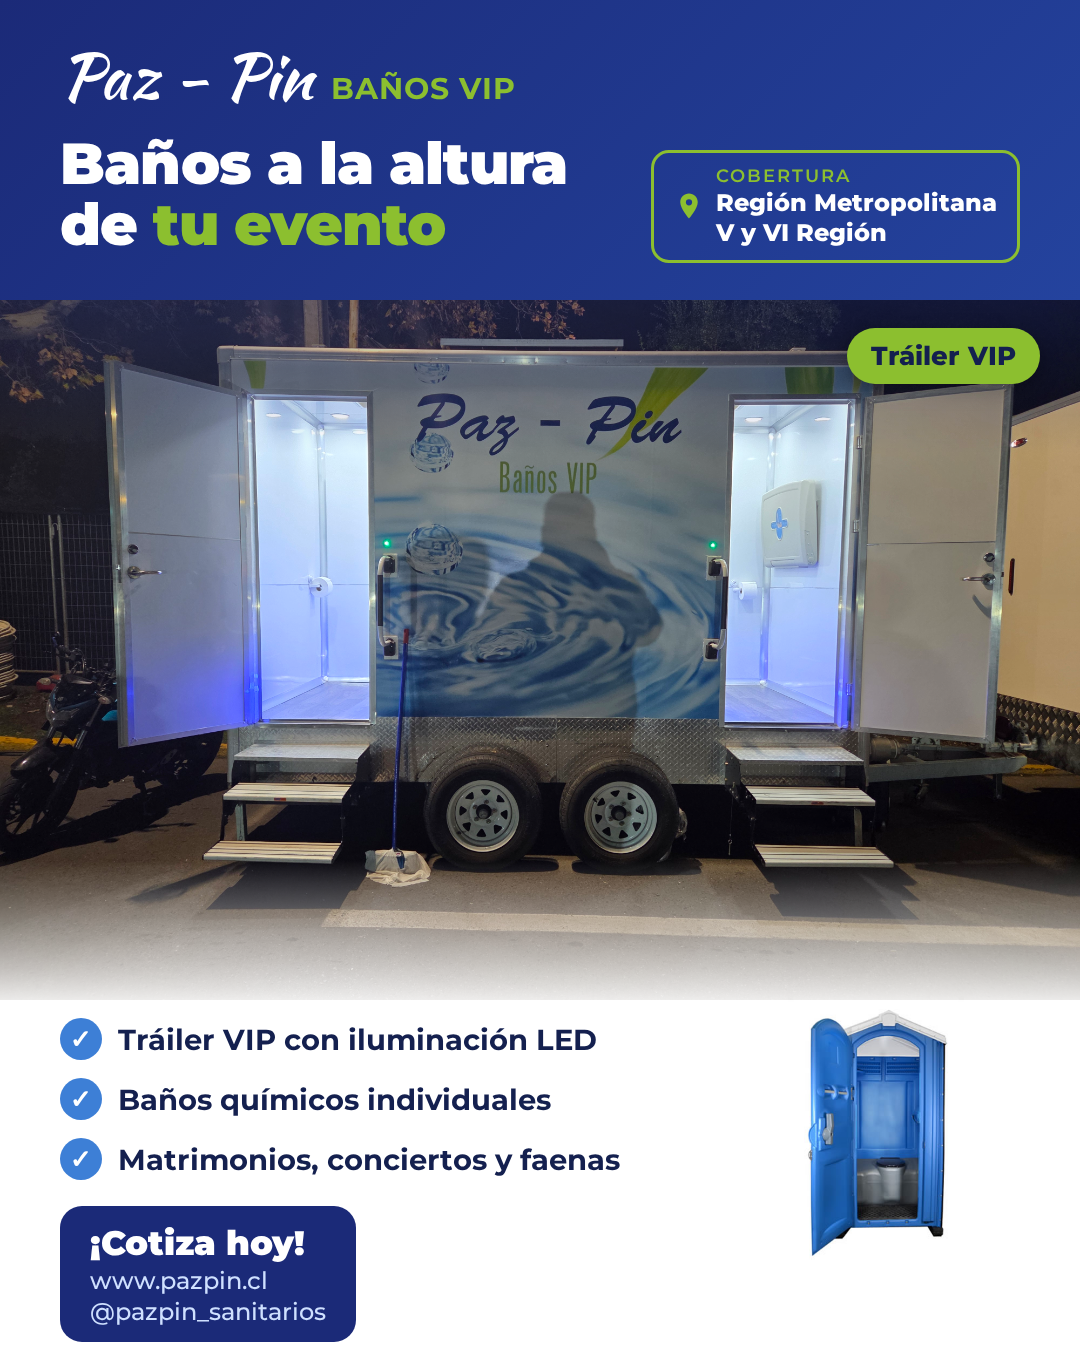
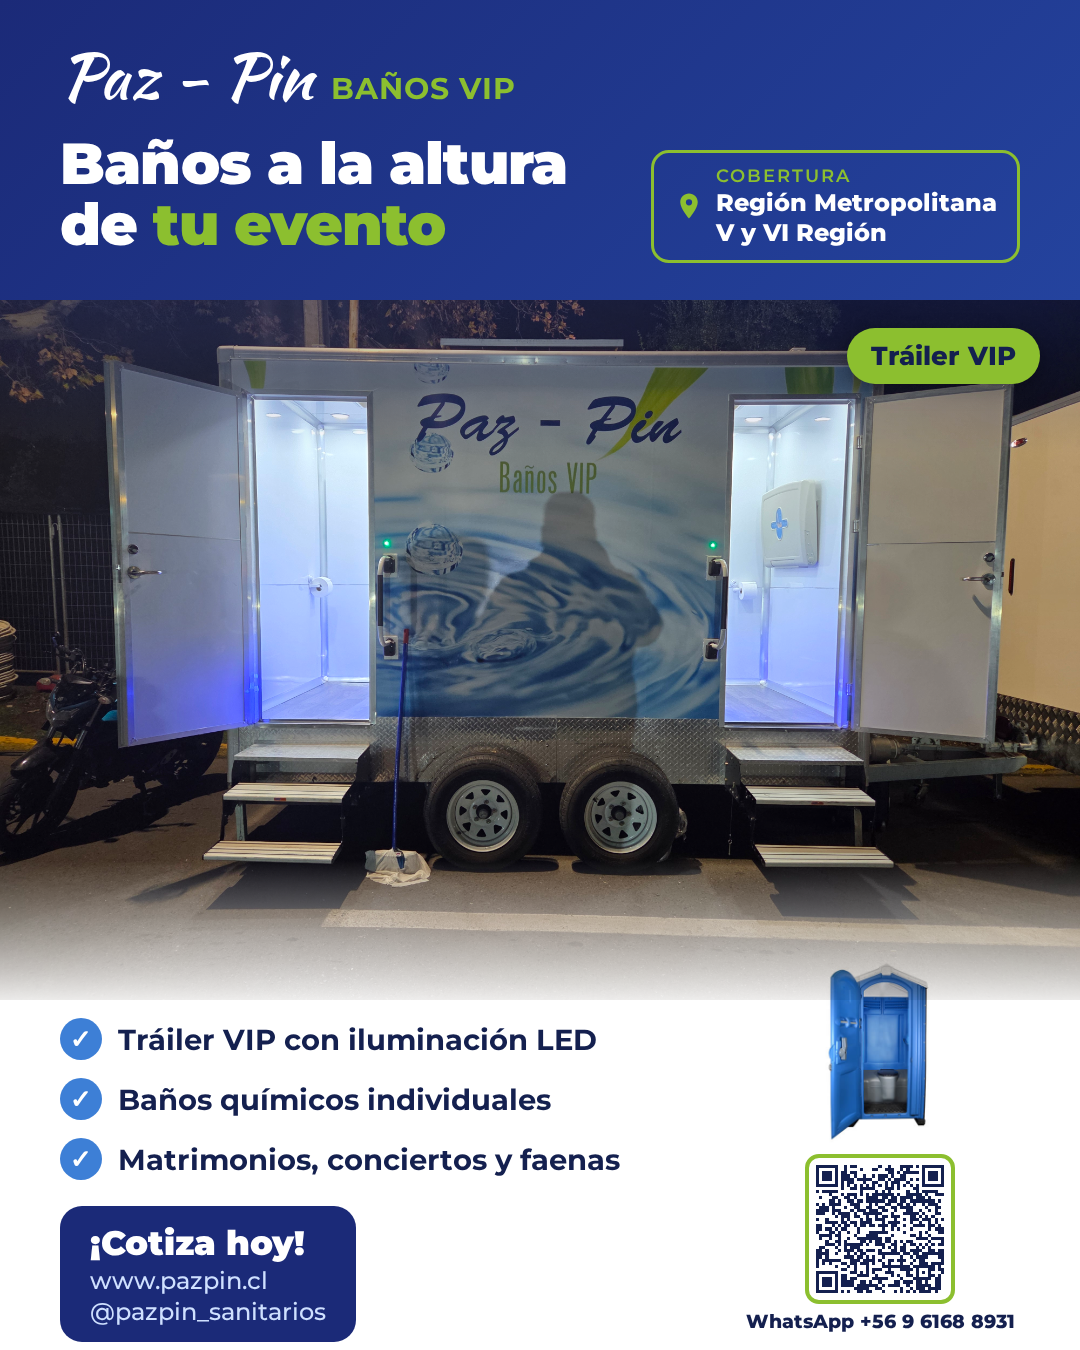
Agregar QR de WhatsApp a la publicidad
QR a wa.me/56961688931 con mensaje prellenado, junto al número, en el
post y la historia; número agregado también al texto sugerido.

Claude-Session: https://claude.ai/code/session_01SeHKDtyF9RTatuRqh77ur9

Changed region(s): [[0.7028, 0.7156, 0.9472, 0.9956]]

diff --git a/instagram/historia-9x16.html b/instagram/historia-9x16.html
@@ -17,7 +17,7 @@
   .ad { position: relative; width: 1080px; height: 1920px; background: #fff; }
 
   .top {
-    height: 520px; padding: 170px 60px 0;
+    height: 470px; padding: 120px 60px 0;
     background: linear-gradient(135deg, var(--navy) 0%, #24439e 100%);
     color: #fff; position: relative;
   }
@@ -58,9 +58,14 @@
   .cta b { font-size: 46px; font-weight: 900; }
   .cta small { font-size: 30px; font-weight: 500; color: #cfe0ff; margin-top: 2px; }
   .cabin { position: absolute; right: 50px; top: -340px; width: 240px; height: 310px; border-radius: 24px; box-shadow: 0 10px 30px rgba(0,0,0,.35); padding: 16px; background: url('assets/bano-quimico.jpg') center / contain no-repeat; background-color: #fff; background-origin: content-box; z-index: 5; }
-  .zona { position: absolute; left: 60px; top: 432px; display: flex; align-items: center; gap: 12px; }
+  .zona { position: absolute; left: 60px; top: 382px; display: flex; align-items: center; gap: 12px; }
   .zona div { font-weight: 700; font-size: 32px; }
   .zona small { font-weight: 800; color: var(--lime); letter-spacing: 1px; margin-right: 8px; }
+  .cta-row { display: flex; align-items: center; gap: 30px; margin-top: 30px; }
+  .cta-row .cta { margin-top: 0; }
+  .qr { display: flex; flex-direction: column; align-items: center; }
+  .qr img { width: 190px; height: 190px; display: block; border: 5px solid var(--lime); border-radius: 18px; padding: 6px; background: #fff; }
+  .qr span { margin-top: 8px; font-size: 24px; font-weight: 800; color: var(--ink); white-space: nowrap; }
 </style>
 </head>
 <body>
@@ -80,10 +85,13 @@
         <li>Baños químicos individuales</li>
         <li>Matrimonios, conciertos y faenas</li>
       </ul>
-      <div class="cta">
+      <div class="cta-row">
+        <div class="cta">
         <b>¡Cotiza hoy!</b>
         <small>www.pazpin.cl</small>
         <small>@pazpin_sanitarios</small>
+      </div>
+        <div class="qr"><img src="assets/qr-whatsapp.svg" alt=""><span>WhatsApp +56 9 6168 8931</span></div>
       </div>
     </div>
     <div class="cabin"></div>

diff --git a/instagram/post-4x5.html b/instagram/post-4x5.html
@@ -61,6 +61,11 @@
     border: 3px solid var(--lime); border-radius: 18px; padding: 12px 20px; }
   .zona div { font-weight: 800; font-size: 24px; line-height: 1.25; }
   .zona small { display: block; font-weight: 600; font-size: 18px; color: var(--lime); letter-spacing: 2px; }
+  .side { width: 280px; margin-top: -70px; display: flex; flex-direction: column; align-items: center; }
+  .side .cabin { width: 280px; height: 200px; margin-top: 0; }
+  .qr { margin-top: 6px; display: flex; flex-direction: column; align-items: center; }
+  .qr img { width: 150px; height: 150px; display: block; border: 4px solid var(--lime); border-radius: 14px; padding: 4px; background: #fff; }
+  .qr span { margin-top: 6px; font-size: 19px; font-weight: 800; color: var(--ink); white-space: nowrap; }
 </style>
 </head>
 <body>
@@ -86,7 +91,10 @@
         <small>@pazpin_sanitarios</small>
       </div>
     </div>
-    <div class="cabin"></div>
+    <div class="side">
+      <div class="cabin"></div>
+      <div class="qr"><img src="assets/qr-whatsapp.svg" alt=""><span>WhatsApp +56 9 6168 8931</span></div>
+    </div>
   </div>
 </div>
 </body>

diff --git a/instagram/README.md b/instagram/README.md
@@ -9,7 +9,10 @@ Las fuentes de diseño son `post-4x5.html` e `historia-9x16.html`, con las fotos
 fuentes en `assets/`. Para cambiar un texto (por ejemplo los datos de contacto), edita el
 HTML y vuelve a generar el PNG con una captura de Chromium/Playwright a ese tamaño.
 
-Contacto: www.pazpin.cl · Instagram @pazpin_sanitarios
+Contacto: www.pazpin.cl · Instagram @pazpin_sanitarios · WhatsApp +56 9 6168 8931
+
+El QR (`assets/qr-whatsapp.svg`) abre un chat con https://wa.me/56961688931 con el
+mensaje "Hola, quiero cotizar baños para mi evento".
 Cobertura: Región Metropolitana, V Región y VI Región
 
 ## Texto de la publicación (caption)
@@ -22,7 +25,8 @@ En **Paz-Pin Baños VIP** te arrendamos baños a la altura de tu celebración:
 ✅ Ideal para matrimonios, conciertos, fiestas, eventos corporativos y faenas
 📍 Cobertura en la Región Metropolitana, V Región y VI Región
 
-🌐 Cotiza hoy en www.pazpin.cl
+📲 Cotiza por WhatsApp: +56 9 6168 8931 (wa.me/56961688931)
+🌐 O en www.pazpin.cl
 📩 O escríbenos por mensaje directo a @pazpin_sanitarios
 
 #BañosVIP #ArriendoDeBaños #BañosQuímicos #BañosParaEventos #Matrimonios
